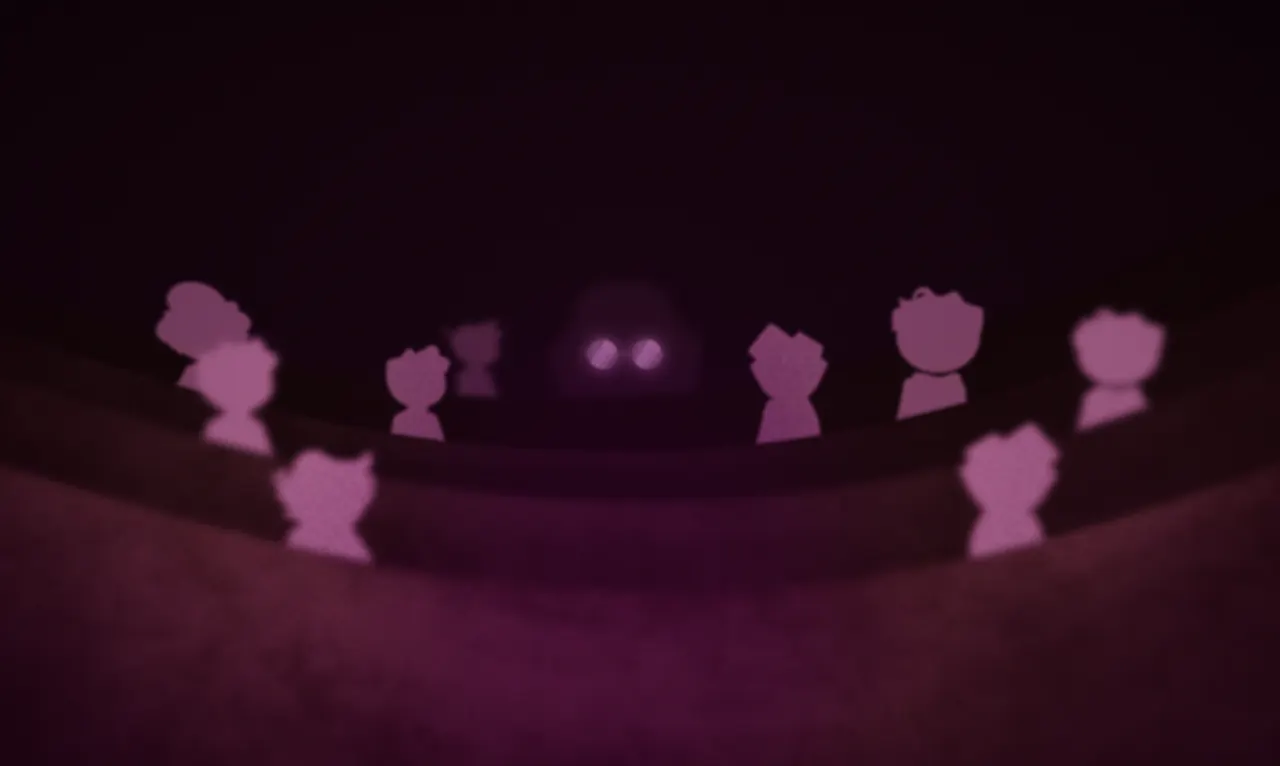
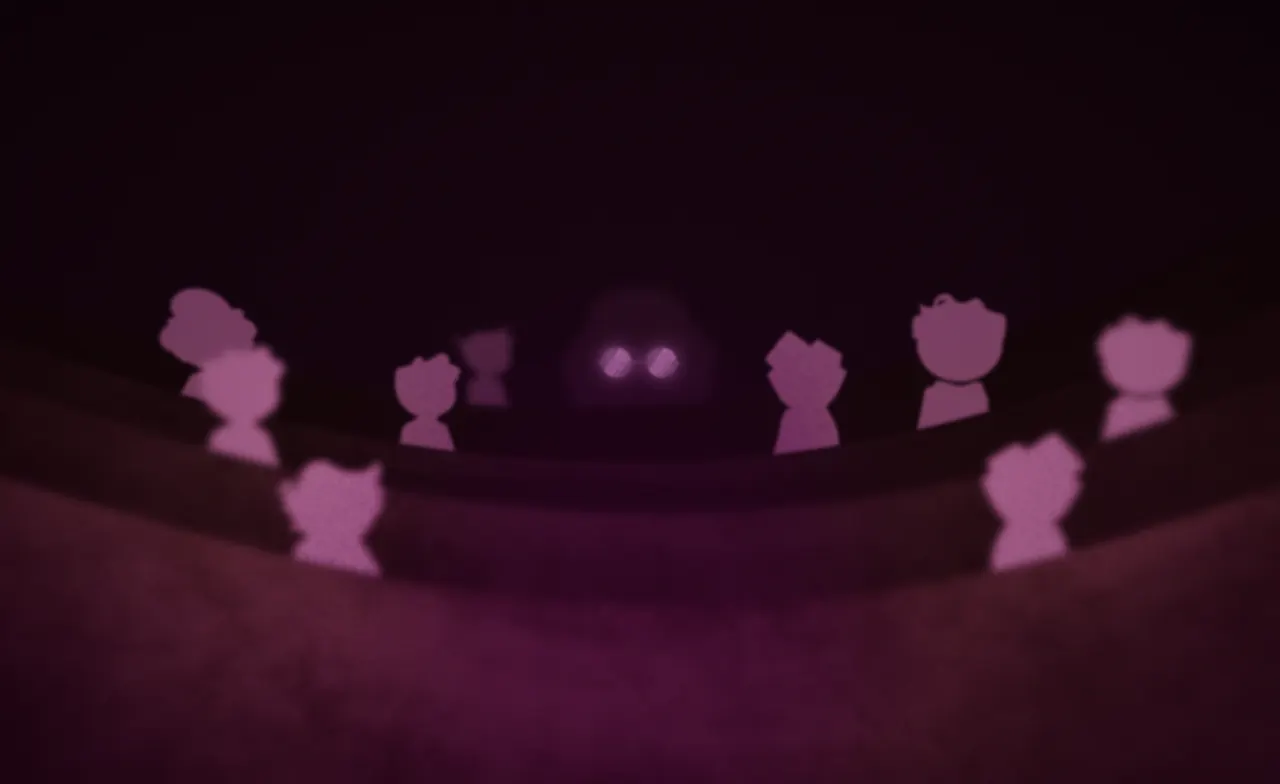
غمام centred, a steadier news sweep in WebKit, and phone crops
غمام: the copy is centred again. The painting is drawn larger from its
top edge so the lit glasses sit in the gap above the video instead of
behind the buttons, and its master is trimmed in the build so they are
dead centre on every screen (they were painted a little left of it).

News sweep: WebKit flashed the paintings on some turns. A turn made
during a sweep now reads where each painting is off the screen and
starts from there explicitly, the new sweep starts before the old ones
are dropped, and the stylesheet's opacity transition no longer runs
under it. Each painting keeps its own layer and is decoded before it is
first shown.

باب الحجرة: the phone's column moves further into the dark.

مجتمعنا: the Maghrebi lines in the call are replaced with Gulf ones.

diff --git a/js/hero.js b/js/hero.js
@@ -55,7 +55,12 @@ export function initHero() {
     if (!bgHost || !painted(item)) return null;
     if (i === 0) return bgHost.querySelector('.news__bg');
     const node = newsBg(item);
-    afterLoad(() => bgHost.append(node));
+    /* decoded before it is ever shown: WebKit otherwise decodes a painting
+       on the frame it first appears, mid sweep, and blinks */
+    afterLoad(() => {
+      bgHost.append(node);
+      node.querySelector('img').decode?.().catch(() => {});
+    });
     return node;
   });
 
@@ -255,9 +260,16 @@ export function initHero() {
      the stage never shows past a moving edge.
 
      A turn made before the last one has finished picks each painting up
-     from wherever it is: the keyframe it starts from is left out, so it
-     starts from what is on screen. When a painting has settled its
-     animations are dropped and the stylesheet holds it again. */
+     from wherever it is. Where it is, is read off the screen and written
+     into the new sweep's first keyframe: leaving that keyframe out and
+     letting the browser work it out from the sweep already running made
+     WebKit flash the painting at its resting state for a frame. The new
+     sweep is started before the old ones are dropped, for the same reason:
+     there is never a frame with nothing holding the painting.
+
+     The sweep is the only thing that moves these. The stylesheet's opacity
+     transition is for reduced motion alone (sections.css), so the two never
+     run against each other. */
   function sweep(out, into, dir) {
     /* a device that cannot keep up slides and fades, and skips the blur */
     const far = lite.on ? 'none' : 'blur(26px)';
@@ -265,16 +277,27 @@ export function initHero() {
     const away = (side) => ({ transform: `translate3d(${side * 6}%,0,0) scale(1.13)`, filter: far, opacity: 0 });
     const home = { transform: 'translate3d(0,0,0) scale(1)', filter: near, opacity: 1 };
     const opts = { duration: SLIDE_MS * 1.5, easing: 'cubic-bezier(.2,.75,.2,1)', fill: 'both' };
-    /* only a sweep counts as moving: the stylesheet's own opacity
-       transition starts on every turn, and is not one */
-    const sweeps = (n) => n.getAnimations().filter((a) => !(a instanceof CSSTransition));
-    const moving = (n) => sweeps(n).some((a) => a.playState === 'running');
-    const settle = (n, a) => a.finished.then(() => {
-      if (!moving(n)) sweeps(n).forEach((x) => x.cancel());
-    }).catch(() => {});
+    const sweeps = (n) => n.getAnimations().filter((x) => !(x instanceof CSSTransition));
 
-    if (out) settle(out, out.animate(moving(out) ? [away(-dir)] : [home, away(-dir)], opts));
-    if (into) settle(into, into.animate(moving(into) ? [home] : [away(dir), home], opts));
+    const run = (n, rest, to) => {
+      const old = sweeps(n);
+      let from = rest;
+      if (old.some((x) => x.playState === 'running')) {
+        const now = getComputedStyle(n);
+        from = {
+          transform: now.transform === 'none' ? home.transform : now.transform,
+          filter: now.filter === 'none' ? near : now.filter,
+          opacity: now.opacity
+        };
+      }
+      const a = n.animate([from, to], opts);
+      old.forEach((x) => x.cancel());
+      /* once it has come to rest where the stylesheet would have it anyway,
+         the sweep lets go */
+      a.finished.then(() => { if (sweeps(n).length === 1) a.cancel(); }).catch(() => {});
+    };
+    if (out) run(out, home, away(-dir));
+    if (into) run(into, away(dir), home);
   }
 
   function slide(node, fromX, toX, fromOp, toOp, opts) {
@@ -348,7 +371,7 @@ function newsBg(item) {
       srcset: `${base}-1280.webp 1280w, ${base}-1920.webp 1920w`,
       sizes: 'max(100vw, 200vh)',
       alt: '',
-      decoding: 'async'
+      decoding: 'sync'
     })
   ));
 }

diff --git a/js/data.js b/js/data.js
@@ -318,8 +318,9 @@ export const STILLS = {
                 tall    centre of the 9:16 column a phone gets. The build
                         step holds the same number: change both
                 at      object-position on a wide screen, atTall on a phone
-                zoomTall  enlarges the phone's column about atTall, to
-                        move the subject out from behind the copy
+                zoom    enlarges the picture about `at`, to move the
+                        subject out from behind the copy. zoomTall does
+                        the same for the phone's column, about atTall
                 place   'side' moves the copy off centre on a wide screen
                 light   where the painting's light is, so the title can be
                         lit by it (js/backdrop.js). A point, or a cone with
@@ -430,13 +431,14 @@ export const PROJECT_PAGES = {
     ],
     theme: { bg: '#2b0c23', sky: '#140a14', deep: '#0d050b', ink: '#f8eff8', accent: '#f3b9f4', accent2: '#9c4a88', pop: '#eeb0f0', cloud: '#4d2443' },
     /* the hall, and the one pair of lit glasses in the middle of it. The
-       title is short, so the copy stands to one side and leaves him alone
-       in the centre, and what light there is on it comes from him, below */
+       copy is centred over him, so the painting is drawn a little large
+       from its top edge: that drops him out from behind the buttons, into
+       the gap above the video. What light the title has comes from him */
     bg: {
-      ar: 1.6696, tall: 0.5, at: [50, 50], atTall: [50, 0], zoomTall: 1.2, place: 'side',
-      light: { kind: 'point', at: [0.497, 0.455], r: 0.8 },
+      ar: 1.6327, tall: 0.5, at: [50, 0], atTall: [50, 0], zoom: 1.36, zoomTall: 1.2,
+      light: { kind: 'point', at: [0.5, 0.462], r: 0.8 },
       lit: ['#ffd9ff', '#f8eff8', '#b79ac0'],
-      cast: '#000000d0', pool: '#0d050b', poolK: 0.5
+      cast: '#000000d0', pool: '#0d050b', poolK: 0.36
     }
   },
   hujra: {
@@ -473,7 +475,7 @@ export const PROJECT_PAGES = {
        for both, so its column is cut from that dark: the last of the eyes
        along one edge, and the copy in the clear */
     bg: {
-      ar: 1.7778, tall: 0.6, at: [0, 30], atTall: [50, 50], place: 'side',
+      ar: 1.7778, tall: 0.76, at: [0, 30], atTall: [50, 50], place: 'side',
       light: { kind: 'point', at: [0.33, 0.38], r: 1.5 },
       lit: ['#ffffff', '#cfe6ff', '#a98be6'],
       cast: '#05020ccc', pool: '#0d0617', poolK: 0.55,

diff --git a/index.html b/index.html
@@ -25,14 +25,14 @@
 <!-- the live numbers (scripts/fetch-stats.mjs rewrites it hourly). A plain
      script so it is on window before any module runs; the page reads fine
      without it, because every figure is also written into the HTML. -->
-<script defer src="assets/stats-data.js?v=1791196152"></script>
-<link rel="stylesheet" href="css/base.css?v=1791196152">
-<link rel="stylesheet" href="css/cover.css?v=1791196152">
-<link rel="stylesheet" href="css/sections.css?v=1791196152">
+<script defer src="assets/stats-data.js?v=1791196887"></script>
+<link rel="stylesheet" href="css/base.css?v=1791196887">
+<link rel="stylesheet" href="css/cover.css?v=1791196887">
+<link rel="stylesheet" href="css/sections.css?v=1791196887">
 
 <!-- every module up front, so the imports load side by side instead of
      one level at a time -->
-<link rel="modulepreload" href="js/main.js?v=1791196152">
+<link rel="modulepreload" href="js/main.js?v=1791196887">
 <link rel="modulepreload" href="js/util.js">
 <link rel="modulepreload" href="js/data.js">
 <link rel="modulepreload" href="js/ambient.js">
@@ -110,7 +110,7 @@
     <div class="news__bg is-on" style="--at:100% 22%;--at-tall:50% 50%;--zoom:1.36;--wash:#4a2a63;--foot:#4a2a63">
       <picture>
         <source media="(max-aspect-ratio: 4/5)" srcset="assets/img/bg/hujra-tall-720.webp 720w, assets/img/bg/hujra-tall-1080.webp 1080w" sizes="100vw">
-        <img src="assets/img/bg/hujra-1280.webp" srcset="assets/img/bg/hujra-1280.webp 1280w, assets/img/bg/hujra-1920.webp 1920w" sizes="max(100vw, 200vh)" alt="" decoding="async">
+        <img src="assets/img/bg/hujra-1280.webp" srcset="assets/img/bg/hujra-1280.webp 1280w, assets/img/bg/hujra-1920.webp 1920w" sizes="max(100vw, 200vh)" alt="" decoding="sync">
       </picture>
     </div>
   </div>
@@ -621,6 +621,6 @@
   </div>
 </footer>
 
-<script type="module" src="js/main.js?v=1791196152"></script>
+<script type="module" src="js/main.js?v=1791196887"></script>
 </body>
 </html>

diff --git a/project.html b/project.html
@@ -16,10 +16,10 @@
       href="https://fonts.googleapis.com/css2?family=Baloo+Bhaijaan+2:wght@700;800&family=Rubik:wght@400;500;600;700&display=swap">
 <noscript><link rel="stylesheet" href="https://fonts.googleapis.com/css2?family=Baloo+Bhaijaan+2:wght@700;800&family=Rubik:wght@400;500;600;700&display=swap"></noscript>
 
-<link rel="stylesheet" href="css/base.css?v=1791196152">
-<link rel="stylesheet" href="css/cover.css?v=1791196152">
-<link rel="stylesheet" href="css/sections.css?v=1791196152">
-<link rel="stylesheet" href="css/project.css?v=1791196152">
+<link rel="stylesheet" href="css/base.css?v=1791196887">
+<link rel="stylesheet" href="css/cover.css?v=1791196887">
+<link rel="stylesheet" href="css/sections.css?v=1791196887">
+<link rel="stylesheet" href="css/project.css?v=1791196887">
 
 <!-- The painted world behind the hero is the largest thing on the first
      screen, and only js/project.js knows which one it is. Asked for here, it
@@ -41,7 +41,7 @@
   });
 })();
 </script>
-<link rel="modulepreload" href="js/project.js?v=1791196152">
+<link rel="modulepreload" href="js/project.js?v=1791196887">
 <link rel="modulepreload" href="js/util.js">
 <link rel="modulepreload" href="js/data.js">
 <link rel="modulepreload" href="js/ambient.js">
@@ -146,6 +146,6 @@
   </div>
 </footer>
 
-<script type="module" src="js/project.js?v=1791196152"></script>
+<script type="module" src="js/project.js?v=1791196887"></script>
 </body>
 </html>

diff --git a/css/sections.css b/css/sections.css
@@ -401,8 +401,8 @@
 
    Turning the deck carries the paintings too (hero.js sweep): the old one
    slides the way the card went and goes out of focus, the new one arrives
-   out of focus from the other side and sharpens as it comes to rest. The
-   opacity transition here is what is left when motion is turned off. */
+   out of focus from the other side and sharpens as it comes to rest. With
+   motion turned off they cross fade instead (the reduced motion block). */
 .news__bgs {
   position: absolute;
   inset: 0;
@@ -415,7 +415,9 @@
   inset: -2.5%;
   opacity: 0;
   translate: calc(var(--px, 0) * -6px) calc(var(--py, 0) * -4px);
-  transition: opacity 900ms cubic-bezier(.4,0,.2,1);
+  /* each painting keeps its own layer, so a sweep never has to build one
+     (and paint the picture again) on its first frame */
+  will-change: transform, filter, opacity;
 }
 .news__bg.is-on { opacity: 1; }
 /* --zoom closes in on the corner the crop is anchored to (bg.news) */
@@ -674,6 +676,8 @@
 @media (prefers-reduced-motion: reduce) {
   .news__title, .news__head .eyebrow { animation: none; }
   .news__track, .news__clouds, .news__front, .news__worlds, .news__bg { transform: none; translate: none; }
+  /* no sweep here: the paintings just change places */
+  .news__bg { transition: opacity 400ms ease; will-change: auto; }
   .news__layer .eye { transition: none; }
 }
 

diff --git a/js/backdrop.js b/js/backdrop.js
@@ -53,7 +53,7 @@ export function backdrop(id, bg) {
     class: `pbg${bg.light.flicker ? ' pbg--flicker' : ''}`,
     'aria-hidden': 'true',
     style: `--at:${bg.at[0]}% ${bg.at[1]}%;--at-tall:${bg.atTall[0]}% ${bg.atTall[1]}%;`
-         + `--zoom-tall:${bg.zoomTall || 1};--pool:${bg.pool};--pool-k:${bg.poolK * 100}%;`
+         + `--zoom:${bg.zoom || 1};--zoom-tall:${bg.zoomTall || 1};--pool:${bg.pool};--pool-k:${bg.poolK * 100}%;`
          + (bg.zenith ? `--zenith:${bg.zenith}` : '')
   }, pic, glow, el('i', { class: 'pbg__pool' }));
 
@@ -82,9 +82,9 @@ export function backdrop(id, bg) {
       u = (u - (bg.tall - span / 2)) / span;
     }
     const [ox, oy] = tall ? bg.atTall : bg.at;
-    /* the phone's column can be drawn enlarged about its anchor
-       (bg.zoomTall), which is the same sum with a bigger picture */
-    const s = Math.max(W / ar, H) * (tall ? bg.zoomTall || 1 : 1);
+    /* the picture can be drawn enlarged about its anchor (bg.zoom,
+       bg.zoomTall), which is the same sum with a bigger picture */
+    const s = Math.max(W / ar, H) * ((tall ? bg.zoomTall : bg.zoom) || 1);
     const w = ar * s;
     const x = (W - w) * (ox / 100) + u * w;
     const y = (H - s) * (oy / 100) + v * s;

diff --git a/js/community.js b/js/community.js
@@ -17,8 +17,9 @@ import { $, $$, el, reduced, tick, whileVisible, cloudDrift, spring, step } from
 /* What each سراج says when the ring comes round to them. مصباح is sharing
    his screen and the studio's showreel is what is on it, so that is the only
    thing anyone in the room talks about: he is showing it, the other three
-   are reacting to it. Each speaks their own dialect (Gulf, Egyptian,
-   Levantine, Maghrebi), because the club is spread across all four. Keep
+   are reacting to it. They speak Gulf, Egyptian and Levantine, the
+   dialects most of the club reads without effort. There was a Maghrebi
+   voice too, and the client had it taken out: do not bring it back. Keep
    every line about the reel. */
 const LINES = {
   misbah: [
@@ -37,9 +38,9 @@ const LINES = {
     'عيدو من الأول، ما شبعت منو'
   ],
   qandeel: [
-    'واعر بزاف هاد الشوريل',
-    'شحال من لقطة زوينة فيه',
-    'عاود ليا هاديك اللقطة عفاك'
+    'ما شاء الله، الشوريل خرافي',
+    'كم لقطة حلوة فيه، ما ينعد',
+    'رجّع لي ذيك اللقطة لو سمحت'
   ]
 };
 

diff --git a/css/project.css b/css/project.css
@@ -50,7 +50,7 @@ body.pp--painted {
   transition: opacity 800ms ease, scale 1800ms cubic-bezier(.2,.7,.2,1);
 }
 .pbg.is-in .pbg__pic { opacity: 1; scale: 1.04; }
-.pbg__img { display: block; width: 100%; height: 100%; object-fit: cover; object-position: var(--at); }
+.pbg__img { display: block; width: 100%; height: 100%; object-fit: cover; object-position: var(--at); transform-origin: var(--at); scale: var(--zoom, 1); }
 @media (max-aspect-ratio: 4/5) { .pbg__img { object-position: var(--at-tall); transform-origin: var(--at-tall); scale: var(--zoom-tall, 1); } }
 
 /* what gathers behind the copy: night in a dark world, haze in a light one */

diff --git a/tools/build-assets.py b/tools/build-assets.py
@@ -731,12 +731,20 @@ def build_stills():
 # as a fraction of the master's width: js/data.js carries the same number
 # (bg.tall) so the page can find the painted light again after the crop.
 BACKGROUNDS = {
-    "hujra": (("Hujra", "حجرة"), 0.60),
+    "hujra": (("Hujra", "حجرة"), 0.76),
     "samarqand": (("Samarqand", "سمرقند"), 0.50),
     "fasl": (("عجيب", "Fasl"), 0.50),
     "lis": (("لص", "Lis"), 0.47),
     "qird": (("قرد", "غيلم", "qird", "Qird"), 0.36),
     "ghamam": (("غمام", "ghamam", "Ghamam"), 0.50),
+}
+
+# Where a painting's subject is meant to be dead centre and was painted a
+# little off it, the master is trimmed on one side until it is: the value is
+# where the subject sits across the untrimmed master. Every crop on every
+# screen is then centred on it, with nothing to correct on the page.
+BACKGROUND_MIDDLE = {
+    "ghamam": 0.4889,   # the lit glasses
 }
 
 
@@ -770,6 +778,11 @@ def build_backgrounds():
             continue
         im = Image.open(path).convert("RGB")
         w, h = im.size
+        mid = BACKGROUND_MIDDLE.get(pid)
+        if mid:
+            half = round(min(mid, 1 - mid) * w)
+            im = im.crop((round(mid * w) - half, 0, round(mid * w) + half, h))
+            w, h = im.size
         # the master keeps its own shape (bg.ar in data.js): a taller one
         # just gives the page more sky to crop from
         total += save_webp(im, os.path.join(d, f"{pid}-1920.webp"), 1920, quality=80)

diff --git a/CLAUDE.md b/CLAUDE.md
@@ -280,6 +280,10 @@ its flat colour and its scene's set piece: nothing requires a painting.
   and `plate` puts the tagline on frosted glass where the painting is busy.
   On a painted page the copy never fades as one block: opacity on a parent
   cuts the glass's blur off, so each piece carries its own fade.
+- **A subject meant to be dead centre is centred in the build**, not on the
+  page (`BACKGROUND_MIDDLE` in build-assets.py trims the master around it).
+  غمام's glasses were painted a little left of the middle, and a centred
+  title over them showed it.
 - **A phone's column is its own picture.** It is cut from wherever the
   painting is calm (`tall`), and where it is nothing like the wide frame the
   hero takes its own colours there (`bg.phone`): فصل عجيب's column is all
